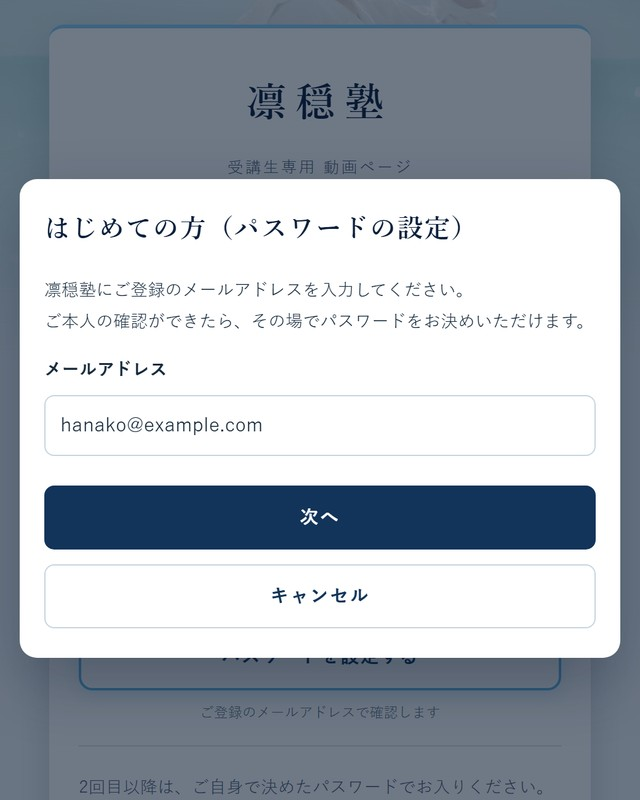
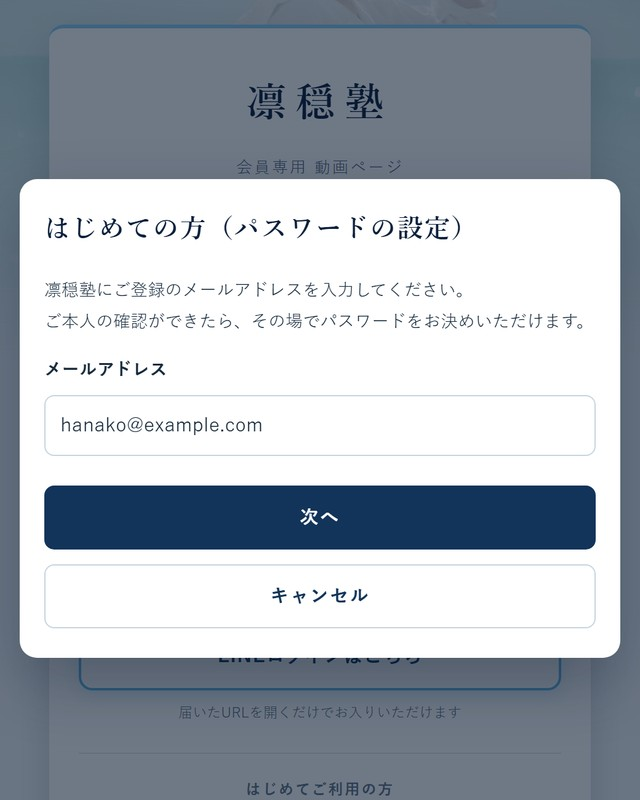
「受講生専用」を「会員専用」に変更（講義の購入者も同じ画面を使うため）
ログイン画面・タブ名・manifest の説明文、マニュアルのタブ名と
ログイン画面の写真3枚。

diff --git a/guide.html b/guide.html
@@ -4,7 +4,7 @@
 <meta charset="UTF-8">
 <meta name="viewport" content="width=device-width, initial-scale=1.0">
 <meta name="robots" content="noindex,nofollow">
-<title>使い方ガイド｜凛穏塾 受講生専用 動画ページ</title>
+<title>使い方ガイド｜凛穏塾 会員専用 動画ページ</title>
 <style>
 *, *::before, *::after { box-sizing: border-box; }
 html, body { margin: 0; padding: 0; }
@@ -325,7 +325,7 @@ td code { background: transparent; padding: 0; }
 <div class="a-body" style="padding:26px 16px 20px">
   <div style="text-align:center;margin-bottom:14px">
     <div style="font-family:var(--serif);font-size:20px;letter-spacing:.2em">凛穏塾</div>
-    <div style="font-size:9px;color:#8fd0f5;letter-spacing:.25em;margin-top:3px">受講生専用 動画ページ</div>
+    <div style="font-size:9px;color:#8fd0f5;letter-spacing:.25em;margin-top:3px">会員専用 動画ページ</div>
   </div>
   <div class="a-field"><span class="a-label">メールアドレス</span>
     <div class="a-input">&nbsp;</div></div>

diff --git a/index.html b/index.html
@@ -15,7 +15,7 @@
 <link rel="icon" type="image/png" sizes="32x32" href="favicon-32.png?v=67">
 <link rel="icon" type="image/png" sizes="64x64" href="favicon-64.png?v=67">
 <link rel="icon" href="icon-192.png?v=67">
-<title>凛穏塾｜受講生専用 動画ページ</title>
+<title>凛穏塾｜会員専用 動画ページ</title>
 <link rel="stylesheet" href="css/style.css?v=67">
 <script>
   /* 選ばれている配色を、画面が描かれる前にあてる（切り替わるちらつきを防ぐ） */
@@ -72,7 +72,7 @@
 <div id="scLogin" class="login-wrap">
   <div class="login-card">
     <h1>凛穏塾</h1>
-    <div class="sub">受講生専用 動画ページ</div>
+    <div class="sub">会員専用 動画ページ</div>
     <form id="loginForm">
       <div class="field">
         <label for="email">メールアドレス</label>

diff --git a/js/config.js b/js/config.js
@@ -6,7 +6,7 @@ window.RJ_CONFIG = {
   GAS_URL: 'https://script.google.com/macros/s/AKfycbzF6jMW-UHALjgGrpMpga4VREFBoDF8AYkRv3wp6U-5pq_mNi2GzzrroRGd5jkh7Rh6IQ/exec',
 
   SITE_NAME: '凛穏塾',
-  SITE_SUB: '受講生専用 動画ページ',
+  SITE_SUB: '会員専用 動画ページ',
 
   // 公開URL（メニューの「パソコンで見る」でコピーされるアドレス。空ならその時開いているURL）
   PUBLIC_URL: 'https://apps.l-mine.com/rionjuku-app/',

diff --git a/start.html b/start.html
@@ -4,7 +4,7 @@
 <meta charset="UTF-8">
 <meta name="viewport" content="width=device-width, initial-scale=1.0">
 <meta name="robots" content="noindex,nofollow">
-<title>はじめての方へ｜凛穏塾 受講生専用 動画ページ</title>
+<title>はじめての方へ｜凛穏塾 会員専用 動画ページ</title>
 <style>
 *, *::before, *::after { box-sizing: border-box; }
 html, body { margin: 0; padding: 0; }

diff --git a/manual/page_guide.py b/manual/page_guide.py
@@ -15,7 +15,7 @@ SCR_LOGIN = """
 <div class="a-body" style="padding:26px 16px 20px">
   <div style="text-align:center;margin-bottom:14px">
     <div style="font-family:var(--serif);font-size:20px;letter-spacing:.2em">凛穏塾</div>
-    <div style="font-size:9px;color:#8fd0f5;letter-spacing:.25em;margin-top:3px">受講生専用 動画ページ</div>
+    <div style="font-size:9px;color:#8fd0f5;letter-spacing:.25em;margin-top:3px">会員専用 動画ページ</div>
   </div>
   <div class="a-field"><span class="a-label">メールアドレス</span>
     <div class="a-input">&nbsp;</div></div>
@@ -339,7 +339,7 @@ SECS = [
 def build():
     return page(
         fname="guide.html",
-        title="使い方ガイド｜凛穏塾 受講生専用 動画ページ",
+        title="使い方ガイド｜凛穏塾 会員専用 動画ページ",
         kicker="RIONJUKU ONLINE STUDY",
         cover_title="受講生さま向け<br>使い方ガイド",
         cover_sub="はじめてのログインから、動画の観かた・通知の受け取りかたまで。"

diff --git a/manual/page_start.py b/manual/page_start.py
@@ -251,7 +251,7 @@ def build():
 <meta charset="UTF-8">
 <meta name="viewport" content="width=device-width, initial-scale=1.0">
 <meta name="robots" content="noindex,nofollow">
-<title>はじめての方へ｜凛穏塾 受講生専用 動画ページ</title>
+<title>はじめての方へ｜凛穏塾 会員専用 動画ページ</title>
 <style>%s%s</style>
 </head>
 <body>
